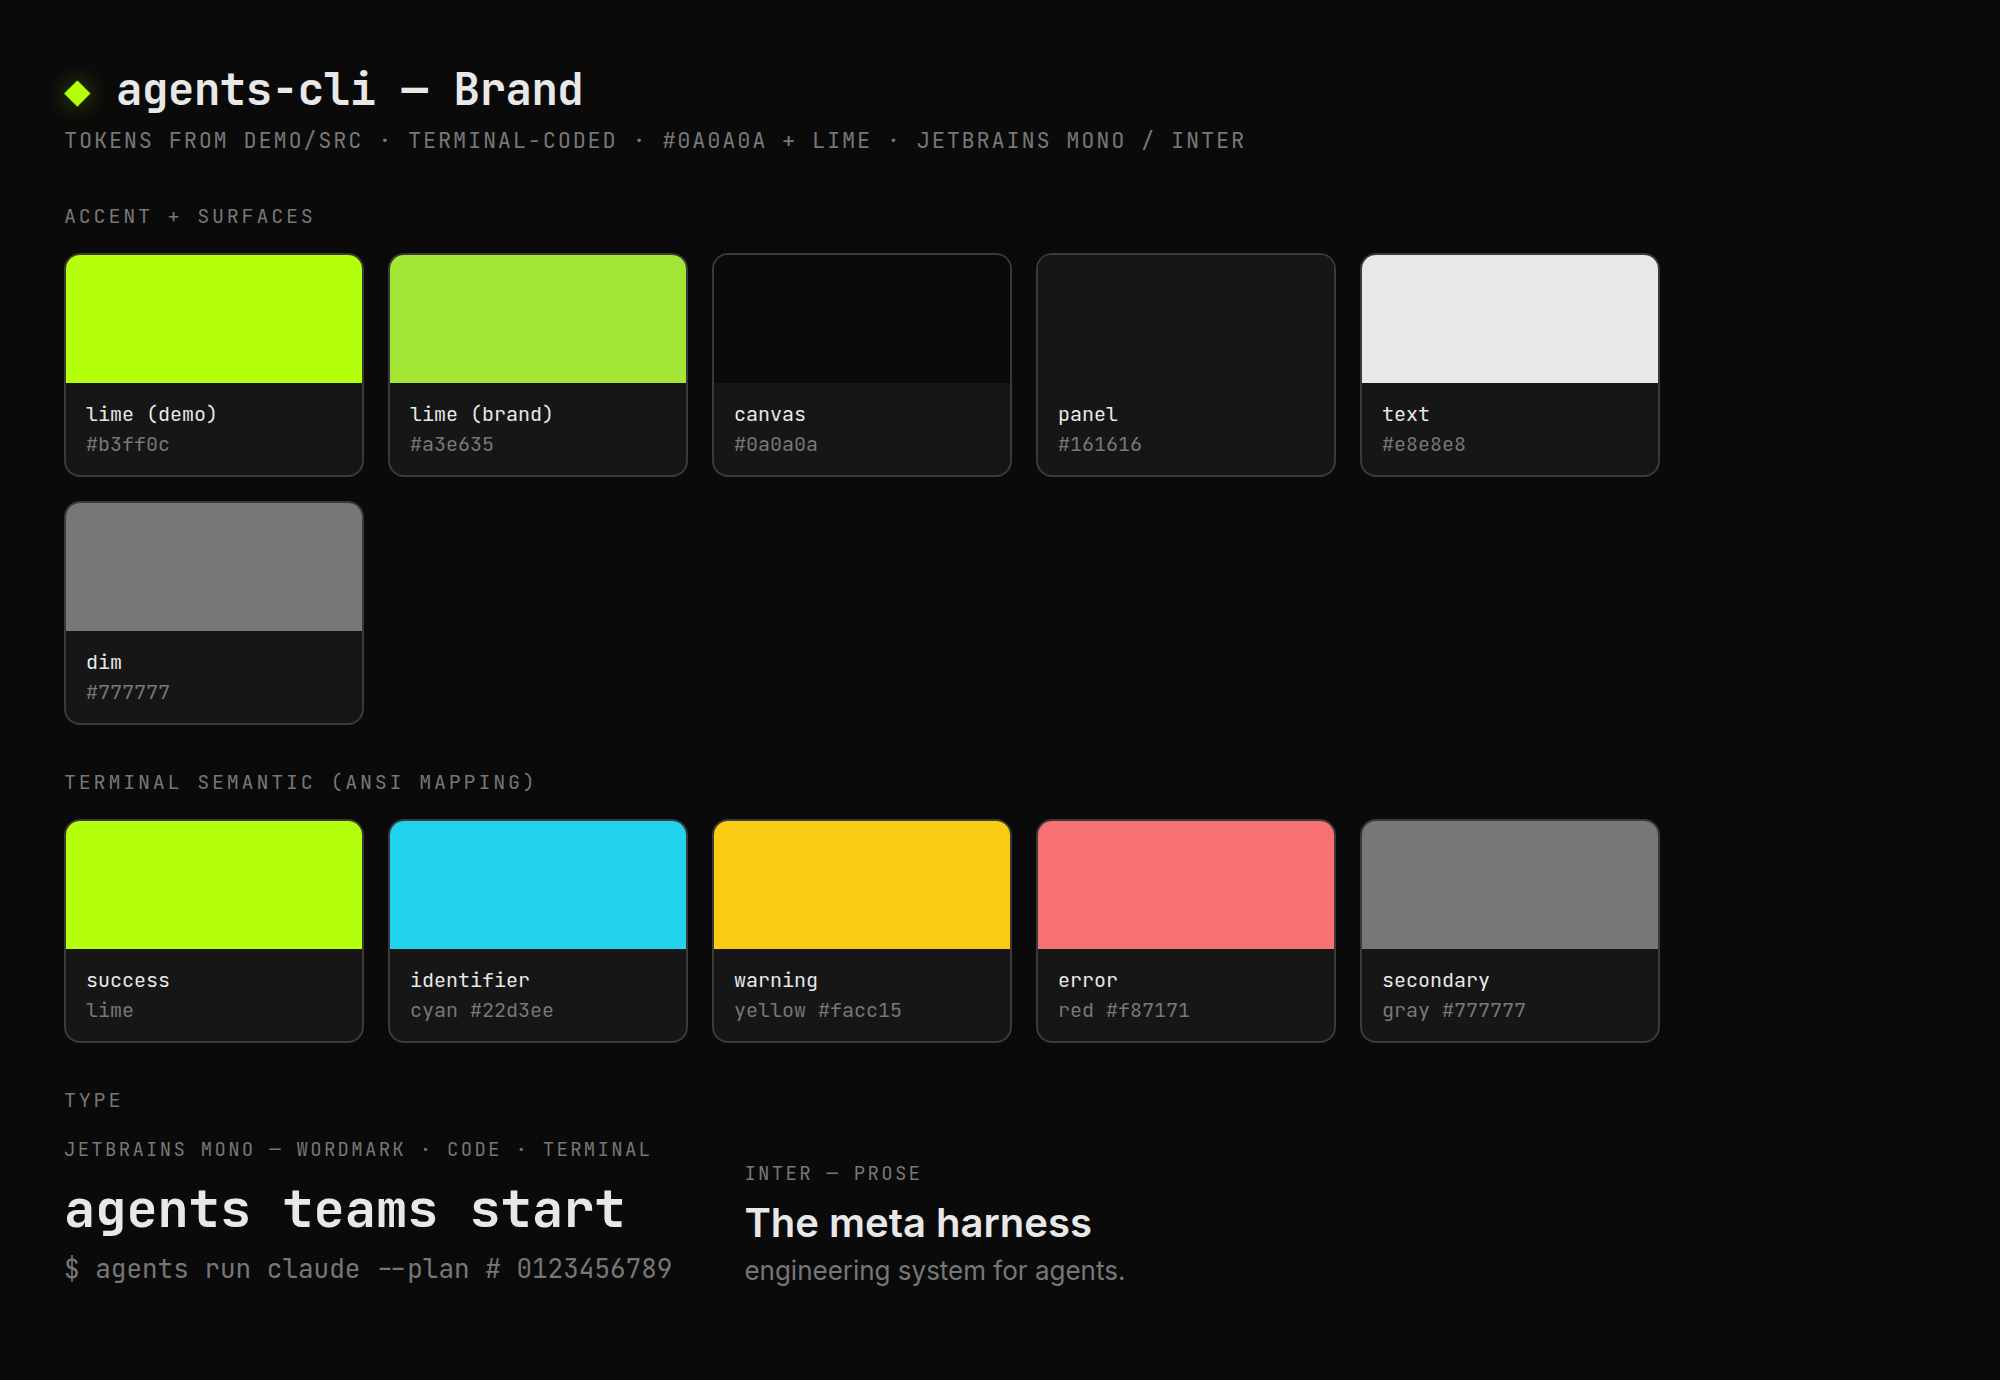
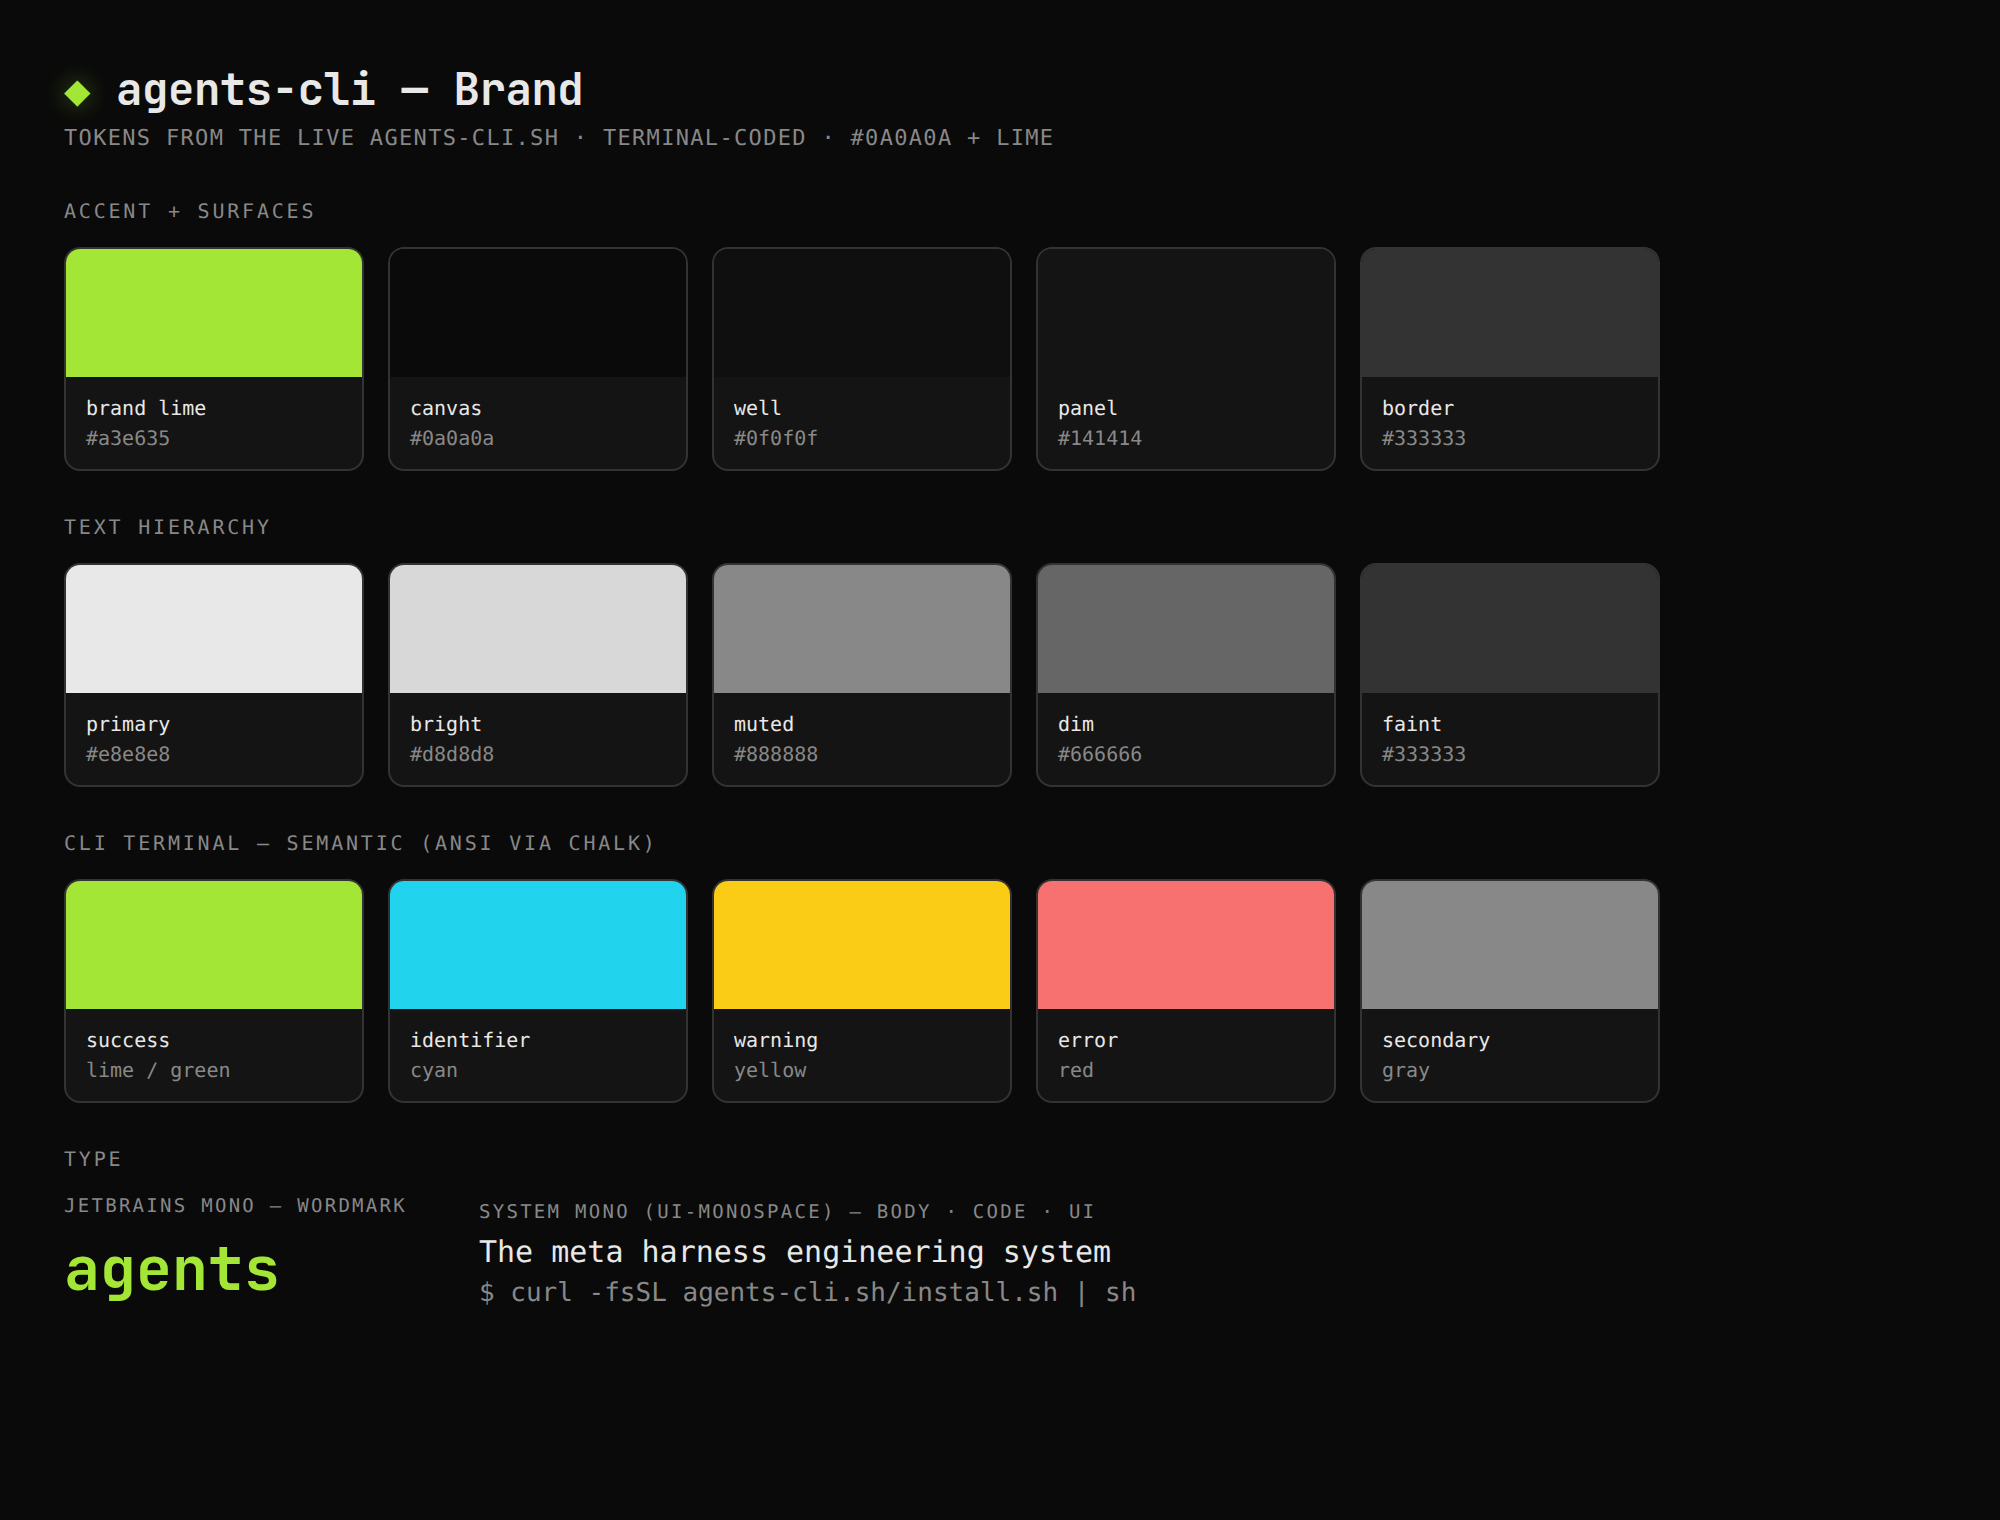
docs(design): ground web tokens in the live agents-cli.sh + add landing shot
Captured the live site in Brave (CDP) and corrected the web-surface tokens to
what the page actually computes, replacing values inherited from demo/src:
- Add assets/design/landing.png — real hero screenshot of agents-cli.sh.
- Re-render brand.png swatch from the live tokens.
- Surfaces #0a0a0a / #0f0f0f / #141414, border #333333; text ladder
  #e8e8e8 → #d8d8d8 → #888888 → #666666 → #333333; accent #a3e635 (b3ff0c is
  promo-only, absent from the live site).
- Typography: the live site is monospace-dominant — JetBrains Mono wordmark
  over a system ui-monospace body; Inter is spec/promo-only, not on the site.
  Corrects the earlier 'Inter prose' claim, which was demo drift.

diff --git a/DESIGN.md b/DESIGN.md
@@ -1,44 +1,49 @@
 ---
 version: alpha
 name: "agents-cli"
-description: "The meta harness engineering system for agents. A Phoenix Labs OSS product (MIT), terminal-coded — NOT the Rush/Swarmify brand. Two surfaces, one identity: a chalk-colored terminal CLI and the agents-cli.sh web landing, both a dark #0a0a0a canvas with a single neon-lime accent. Type is JetBrains Mono (wordmark, code, terminal) + Inter (prose); the CLI speaks in chalk-semantic ANSI color."
+description: "The meta harness engineering system for agents. A Phoenix Labs OSS product (MIT), terminal-coded — NOT the Rush/Swarmify brand. Two surfaces, one identity: a chalk-colored terminal CLI and the agents-cli.sh web landing, both a dark #0a0a0a canvas with a single neon-lime accent. The web is monospace-dominant (JetBrains Mono wordmark over a system ui-monospace body); the CLI speaks in chalk-semantic ANSI color."
 
 colors:
-  # Brand — lime on black. #a3e635 is the named brand lime (per the repo's
-  # brand-identity block); the demo/promo uses a brighter #b3ff0c for glow.
+  # Brand — one lime on black. #a3e635 is THE accent (confirmed on the live
+  # site: rgb(163,230,53), used for the wordmark, CTAs, and highlights).
   brand: "#a3e635"
-  lime-bright: "#b3ff0c"
+  brand-tint: "rgba(163,230,53,0.04)"   # faint lime wash on hover rows / panels
 
-  # Web / demo canvas (from demo/src) — near-black, high contrast.
-  bg: "#0a0a0a"
-  bg-panel: "#161616"
-  bg-recessed: "#0c0c0c"
-  border: "#3a3a3a"
-  text: "#e8e8e8"
-  text-bright: "#f5f5f5"
-  text-dim: "#777777"
+  # Surfaces — near-black ladder (computed from the live agents-cli.sh).
+  bg: "#0a0a0a"          # canvas
+  bg-well: "#0f0f0f"     # recessed
+  bg-panel: "#141414"    # raised panel
+  border: "#333333"
+
+  # Text hierarchy (live site, by usage).
+  text: "#e8e8e8"        # primary
+  text-bright: "#d8d8d8"
+  text-muted: "#888888"
+  text-dim: "#666666"
+  text-faint: "#333333"
 
   # Terminal (ANSI, via chalk) — semantic names, not literal hex; the renderer
-  # maps them to the user's terminal theme. The demo/src hexes below are how the
-  # brand renders those roles when it controls the pixels (Terminal.tsx).
-  term-success: "green"       # renders lime — #b3ff0c
+  # maps them to the user's terminal theme. Hexes below are how the brand renders
+  # those roles when it controls the pixels (demo/src/Terminal.tsx).
+  term-success: "green"       # renders lime
   term-error: "red"           # #f87171
   term-warning: "yellow"      # #facc15
   term-identifier: "cyan"     # #22d3ee
-  term-secondary: "gray"      # #777777
+  term-secondary: "gray"      # #777777 / #888888
   term-emphasis: "bold"
 
 typography:
-  # JetBrains Mono for the wordmark, code, and terminal; Inter for prose.
-  # (agents-cli/demo/src/index.css @font-face; brand-identity block in AGENTS.md.)
+  # Live site is monospace-dominant: JetBrains Mono on the wordmark, a system
+  # ui-monospace stack for body/code/UI. The brand spec + promo demo additionally
+  # pair JetBrains Mono (code) with Inter (prose) — richer contexts only.
   wordmark:
     fontFamily: "'JetBrains Mono', ui-monospace, monospace"
     fontWeight: 700
   mono:
-    fontFamily: "'JetBrains Mono', ui-monospace, SF Mono, monospace"
+    fontFamily: "ui-monospace, SFMono-Regular, 'SF Mono', Menlo, Consolas, monospace"
     fontWeight: 400
-  prose:
-    fontFamily: "Inter, -apple-system, system-ui, sans-serif"
+  prose-spec:
+    fontFamily: "Inter, ui-sans-serif, system-ui, sans-serif"
     fontWeight: 400
 
 rounded:
@@ -80,21 +85,25 @@ components:
 agents-cli is a **terminal-first tool that also wears a web face**. The same brand shows up in two mediums, and the design job is to make them feel like one product:
 
 - **The terminal** — the primary surface. Thousands of lines of `chalk`-colored output, spinners, and aligned monospace tables. This is where the tool lives.
-- **The web** — the [agents-cli.sh](https://agents-cli.sh) landing page (and the promo demo in `demo/src/`). The same identity rendered in HTML: `#0a0a0a` canvas, one neon-lime accent, JetBrains Mono wordmark over Inter prose.
+- **The web** — the [agents-cli.sh](https://agents-cli.sh) landing page. The same identity rendered in HTML, and it leans *harder* into the terminal aesthetic than the CLI: `#0a0a0a` canvas, one neon-lime accent, and monospace almost everywhere — a JetBrains Mono wordmark over a system `ui-monospace` body. The page reads like a `man` page that happens to be a website.
 
 > **Not the Rush/Swarmify brand.** agents-cli is Phoenix Labs OSS and terminal-coded; it does not use Swarmify's Geist/coral system. The Swarmify VS Code extension mirrors this *palette* (lime on black) but is a separate product with its own design doc — don't import its tokens here.
 
 The through-line across both surfaces is **quiet, dense, high-signal**. The tool is mostly gray — secondary text, paths, hints — so that the rare colored element (a lime success, a red failure, a lime call-to-action) carries real weight. The brand personality is a *developer-first performance instrument*: the landing headline is "The meta harness engineering system for agents," and the hero stat is "4.3× FASTER." Nothing is decorative; every glyph and color is a status signal.
 
-![agents-cli brand — accent, surfaces, terminal semantic palette, and type](assets/design/brand.png)
+![agents-cli.sh landing — the live web surface: lime "agents" wordmark on #0a0a0a, monospace throughout, and the parallel-speedup panel with the 4.3× lime badge](assets/design/landing.png)
+
+*The live [agents-cli.sh](https://agents-cli.sh) hero (captured in Brave). Tokens below are computed from this page.*
+
+![agents-cli brand tokens — accent, surfaces, text hierarchy, CLI terminal semantic palette, and type](assets/design/brand.png)
 
 ## Colors
 
 There are two color systems, because there are two renderers.
 
-### Web (landing + demo)
+### Web (live landing)
 
-The brand is **lime on a near-black canvas.** `#a3e635` is the named brand lime; the promo demo pushes a brighter `#b3ff0c` for glow. One accent, used sparingly, for "live / active / primary." Surfaces are a short ladder — `#0a0a0a` canvas → `#0c0c0c` wells → `#161616` panels, hairlined in `#3a3a3a`; text is `#e8e8e8` (bright `#f5f5f5`) dropping to `#777777` for secondary. (Tokens from `demo/src`.)
+The brand is **one lime on a near-black canvas.** `#a3e635` — confirmed on the live site as `rgb(163,230,53)` — is the *only* accent, used sparingly for the wordmark, CTAs, and highlights (plus a `rgba(163,230,53,0.04)` wash on hover rows). Surfaces are a tight near-black ladder: `#0a0a0a` canvas → `#0f0f0f` well → `#141414` panel, hairlined in `#333333`. Text steps down `#e8e8e8` → `#d8d8d8` → `#888888` → `#666666` → `#333333`. (All values computed from the live agents-cli.sh, not a mockup.)
 
 ### Terminal (ANSI via chalk)
 
@@ -118,7 +127,7 @@ The CLI never hardcodes hex — it uses `chalk`'s semantic ANSI names, so output
 
 ## Typography
 
-**Web:** **JetBrains Mono** for the wordmark, code samples, and any machine-shaped text; **Inter** for prose and paragraph copy. The mono/sans split is the hierarchy — prose is human, monospace is the machine. (Both are loaded via `@font-face` in `demo/src/index.css`.)
+**Web:** the live landing is **monospace-dominant** — a **JetBrains Mono** wordmark sits over a system **`ui-monospace`** stack (`SFMono-Regular, "SF Mono", Menlo, Consolas`) that carries body, code, and UI alike. There's almost no sans on the page; the terminal look *is* the type. The brand spec and promo demo (`demo/src/index.css` `@font-face`) additionally pair JetBrains Mono (code) with **Inter** (prose) for richer, non-terminal contexts — but the shipped site stays mono.
 
 **Terminal:** typography is the user's terminal font; the CLI controls only weight (`bold`), dimming (`dim`), and layout. Hierarchy is created with **column alignment** (`.padEnd()` fixed-width columns) and `bold` headers, not type size — a monospace grid is the only typographic tool a terminal has, so lean on it.
 
@@ -131,7 +140,7 @@ The CLI never hardcodes hex — it uses `chalk`'s semantic ANSI names, so output
 - **Aligned key/value pairs** — label left, value right, padded to a common width.
 - No heavy ASCII boxes; alignment and color do the structuring.
 
-**Web layout** is a dark, terminal-coded landing: a centered column on the `#0a0a0a` canvas, panels in `#161616` hairlined with `#3a3a3a`, generous whitespace around a single lime call-to-action.
+**Web layout** is a dark, terminal-coded landing: a centered column on the `#0a0a0a` canvas, panels in `#141414` on `#0f0f0f` wells hairlined with `#333333`, generous whitespace around a single lime call-to-action. Install commands sit in a tabbed code block (`curl` / `bun` / `npm`); metrics render as labeled gauge bars (the parallel-speedup panel).
 
 ## Shapes
 
@@ -147,7 +156,7 @@ The CLI never hardcodes hex — it uses `chalk`'s semantic ANSI names, so output
 ## Components
 
 ### Web
-Primary button: solid lime (`#a3e635`), near-black text (`#0a0a0a`), `4px` radius — the one call-to-action per view. Panels are `#161616` on `#0c0c0c` wells, hairlined in `#3a3a3a`; wordmark in JetBrains Mono, body in Inter. Keep web chrome minimal — the landing sells the terminal, so it should read like one.
+Primary button: solid lime (`#a3e635`), near-black text (`#0a0a0a`), `4px` radius — the one call-to-action per view. Panels are `#141414` on `#0f0f0f` wells, hairlined in `#333333`; wordmark in JetBrains Mono, everything else in the system `ui-monospace` stack. Keep web chrome minimal — the landing sells the terminal, so it should read like one.
 
 ### Terminal
 - **Status line** — glyph + colored label + gray detail: `✓ Menu bar helper enabled.` then dim follow-up.
@@ -172,4 +181,4 @@ Primary button: solid lime (`#a3e635`), near-black text (`#0a0a0a`), `4px` radiu
 - Invent new status glyphs beyond the fixed set, or new chalk roles (avoid `magenta`/`blue` unless truly one-off).
 - Emit emojis or decorative flair (repo hard rule: no emojis anywhere).
 - Use toasts or spinner-that-never-ends UX — success is a quiet ✓, errors are inline red with a fix hint.
-- Drift the web surface off lime + JetBrains Mono / Inter, or pull in the Rush/Swarmify (Geist/coral) styling — the landing must stay terminal-coded and on one palette.
+- Drift the web surface off lime + monospace (JetBrains Mono wordmark, system `ui-monospace` body), or pull in the Rush/Swarmify (Geist/coral) styling — the landing must stay terminal-coded and on one palette.